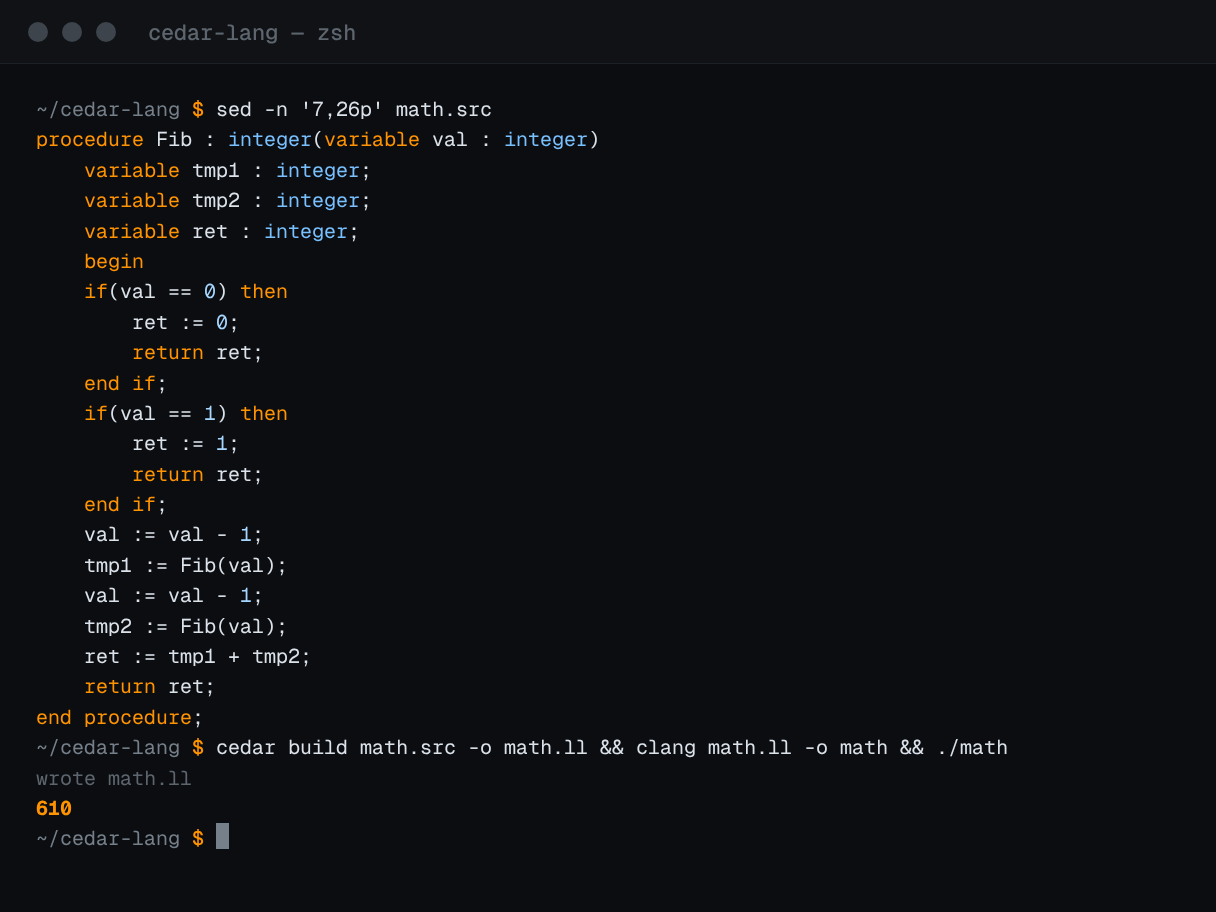
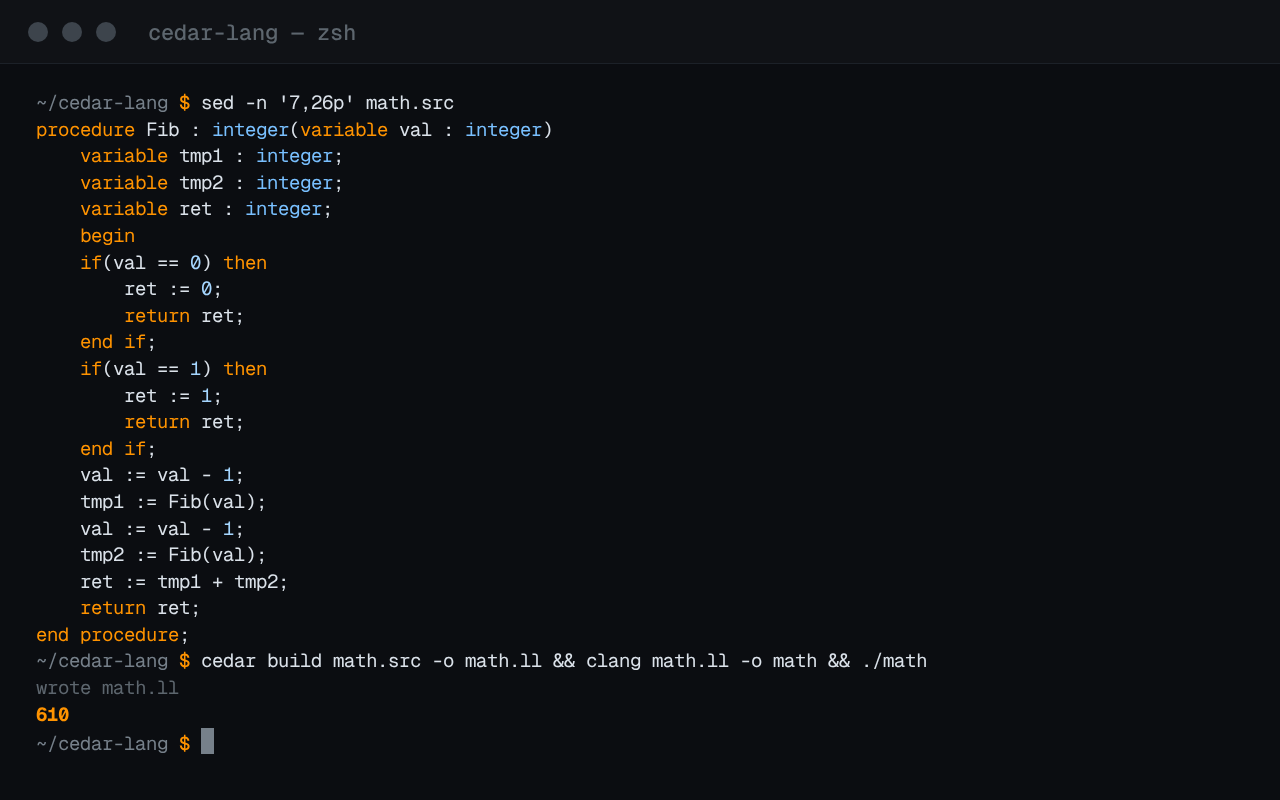
Lay the projects out as large tiles

Changed region(s): [[0.0312, 0.0938, 0.8438, 0.9375], [0.125, 0.0312, 0.2812, 0.0625], [0.0312, 0.0312, 0.0938, 0.0625]]

diff --git a/components/project-list.tsx b/components/project-list.tsx
@@ -1,6 +1,7 @@
 import { LoopVideo } from "@/components/loop-video";
 import { Mark } from "@/components/mark";
 import { ProseLink } from "@/components/prose-link";
+import { RotateImage } from "@/components/rotate-image";
 import {
   projectHref,
   projectLinkLabel,
@@ -14,7 +15,7 @@ import {
  */
 export function ProjectList() {
   return (
-    <main className="mx-auto max-w-measure px-6 pt-22 pb-28 sm:px-8 sm:pt-32 sm:pb-36">
+    <main className="mx-auto max-w-6xl px-6 pt-22 pb-28 sm:px-8 sm:pt-32 sm:pb-36">
       <a href="/" aria-label="Home" className="inline-block no-underline">
         <Mark className="mb-10" />
       </a>
@@ -22,14 +23,11 @@ export function ProjectList() {
       <h1 className="mb-[1.2rem] font-medium tracking-[0.01em]">Projects</h1>
       <p className="mb-12 text-ink-muted">The work I’m proud of.</p>
 
-      <ul className="list-none p-0">
+      <ul className="grid list-none grid-cols-1 gap-x-10 gap-y-16 p-0 sm:grid-cols-2">
         {SHOWCASE.map((p) => {
           const media = p.media;
           return (
-            <li
-              key={p.slug}
-              className="border-t border-rule py-10 first:border-t-0 first:pt-0"
-            >
+            <li key={p.slug} className="min-w-0">
               <div className="group block">
                 {media ? (
                   <a
@@ -42,30 +40,12 @@ export function ProjectList() {
                         poster={media.poster}
                         ratio={media.ratio}
                       />
-                    ) : media.kind === "strip" ? (
+                    ) : media.kind === "rotate" ? (
                       <span
-                        className="showcase-strip"
+                        className="block"
                         style={{ aspectRatio: media.ratio }}
                       >
-                        <span className="showcase-strip-track">
-                          {[0, 1].map((copy) => (
-                            <span
-                              key={copy}
-                              className="showcase-strip-group"
-                              aria-hidden={copy === 1}
-                            >
-                              {media.images.map((src, i) => (
-                                // biome-ignore lint/performance/noImgElement: small static showcase stills
-                                <img
-                                  key={src}
-                                  src={src}
-                                  alt={copy === 0 && i === 0 ? media.alt : ""}
-                                  loading="lazy"
-                                />
-                              ))}
-                            </span>
-                          ))}
-                        </span>
+                        <RotateImage images={media.images} alt={media.alt} />
                       </span>
                     ) : (
                       // biome-ignore lint/performance/noImgElement: small static showcase stills, aspect-ratio kept in style

diff --git a/components/showcase-projects.ts b/components/showcase-projects.ts
@@ -7,14 +7,14 @@
  * `url` → live deployment.
  * Neither → GitHub repo under nishilfaldu/<slug>.
  * `status` → optional label when the work isn't finished yet.
- * `media` → the card's visual: a loop video or a still, in display aspect.
+ * `media` → the tile's visual: a loop video, a still, or a rotating set.
  */
 export type ShowcaseStatus = "building";
 
 export type ShowcaseMedia =
   | { kind: "video"; src: string; poster: string; ratio: string }
   | { kind: "image"; src: string; alt: string; ratio: string }
-  | { kind: "strip"; images: string[]; alt: string; ratio: string };
+  | { kind: "rotate"; images: string[]; alt: string; ratio: string };
 
 export type ShowcaseProject = {
   slug: string;
@@ -58,7 +58,7 @@ export const SHOWCASE: ShowcaseProject[] = [
       kind: "image",
       src: "/showcase/cedar-terminal.png",
       alt: "A terminal showing a Cedar Fibonacci program, the build to a native executable, and the program printing 610.",
-      ratio: "4 / 3",
+      ratio: "16 / 10",
     },
   },
   {
@@ -75,7 +75,7 @@ export const SHOWCASE: ShowcaseProject[] = [
       },
     ],
     media: {
-      kind: "strip",
+      kind: "rotate",
       images: [
         "/showcase/7west/01.webp",
         "/showcase/7west/02.webp",
@@ -86,7 +86,7 @@ export const SHOWCASE: ShowcaseProject[] = [
         "/showcase/7west/07.webp",
         "/showcase/7west/08.webp",
       ],
-      alt: "All eight 7West Play Store screenshots in a slowly scrolling strip.",
+      alt: "The 7West Play Store screenshots, cycling one at a time.",
       ratio: "16 / 10",
     },
   },

diff --git a/components/rotate-image.tsx b/components/rotate-image.tsx
@@ -1,0 +1,50 @@
+"use client";
+
+import { useEffect, useState } from "react";
+
+/**
+ * Cycles through a set of screenshots one at a time, crossfading.
+ * Pauses on hover, never starts for reduced-motion users.
+ */
+export function RotateImage({
+  images,
+  alt,
+}: {
+  images: string[];
+  alt: string;
+}) {
+  const [index, setIndex] = useState(0);
+  const [paused, setPaused] = useState(false);
+
+  useEffect(() => {
+    if (paused) return;
+    if (window.matchMedia("(prefers-reduced-motion: reduce)").matches) return;
+    const id = window.setInterval(
+      () => setIndex((i) => (i + 1) % images.length),
+      3200,
+    );
+    return () => window.clearInterval(id);
+  }, [paused, images.length]);
+
+  return (
+    // biome-ignore lint/a11y/noStaticElementInteractions: hover only pauses the decorative cycling
+    <span
+      className="relative block h-full w-full bg-black"
+      onMouseEnter={() => setPaused(true)}
+      onMouseLeave={() => setPaused(false)}
+    >
+      {images.map((src, i) => (
+        // biome-ignore lint/performance/noImgElement: small static showcase stills
+        <img
+          key={src}
+          src={src}
+          alt={i === 0 ? alt : ""}
+          loading={i < 2 ? "eager" : "lazy"}
+          aria-hidden={i !== index}
+          className="absolute inset-0 h-full w-full object-contain transition-opacity duration-700"
+          style={{ opacity: i === index ? 1 : 0 }}
+        />
+      ))}
+    </span>
+  );
+}

diff --git a/app/globals.css b/app/globals.css
@@ -130,59 +130,3 @@
     animation-duration: 0.01ms !important;
   }
 }
-
-/* Showcase strip (home page): a slow, quiet loop through every screenshot.
-   Duplicated track translates -50%; the seam is invisible because the two
-   groups are identical. Pauses on hover, stops for reduced motion. */
-.showcase-strip {
-  display: block;
-  height: 100%;
-  overflow: hidden;
-  background: #000;
-  mask-image: linear-gradient(
-    90deg,
-    transparent,
-    #000 6%,
-    #000 94%,
-    transparent
-  );
-}
-
-.showcase-strip-track {
-  display: flex;
-  height: 100%;
-  width: max-content;
-  animation: showcase-strip-scroll 56s linear infinite;
-}
-
-.showcase-strip:hover .showcase-strip-track {
-  animation-play-state: paused;
-}
-
-.showcase-strip-group {
-  display: flex;
-  gap: 14px;
-  padding-right: 14px;
-  height: 100%;
-}
-
-.showcase-strip-group img {
-  display: block;
-  height: 100%;
-  width: auto;
-}
-
-@media (prefers-reduced-motion: reduce) {
-  .showcase-strip-track {
-    animation: none;
-  }
-}
-
-@keyframes showcase-strip-scroll {
-  from {
-    transform: translateX(0);
-  }
-  to {
-    transform: translateX(-50%);
-  }
-}
